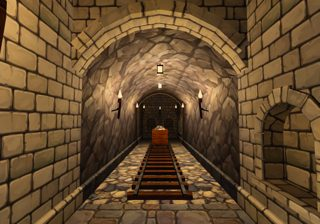
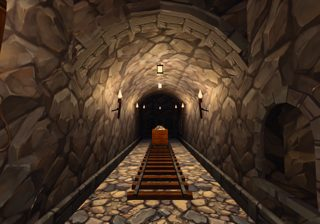
Riddergangen: samme gulv hele veien, også i naborommene
Eieren 20. oktober: «her har du blandet teksturer på gulvet. den skal
være samme hele veien». Gangen selv hadde ett gulv, men galleriet satte
naborommene i gravmur uansett modulens stein, så kvaderens heller gikk
rett over i gravhellene (det samme i gruvegangen). Naborommet får nå
steinen til rommet det står inntil.

check::floor_mix varsler når gulvet skifter i en åpen gang eller bue
mellom to rom, og hvert_rom_har_ett_gulv_i_hver_stein går gjennom hele
modulgalleriet. Nye bilder av riddergangen og gruvegangen, før/etter og
«rettet slik» for u_grav_riddergang.

Claude-Session: https://claude.ai/code/session_01HjRNadLHQ1vF9573PymvAE

diff --git a/crates/fristad-domain/src/domain/world/crypt/compose/modules.rs b/crates/fristad-domain/src/domain/world/crypt/compose/modules.rs
@@ -22,6 +22,7 @@ use super::grid::*;
 use super::{expand, Issue};
 use crate::domain::world::crypt::doc::{DocCell, DocEdge, DocLight, DocLink, DocModule, DocRoom, LevelDoc, LevelId, ModuleDef, Mood, Thing};
 use crate::domain::world::crypt::kit::KitDef;
+use crate::domain::world::crypt::stone::StoneRef;
 use glam::Vec3;
 use std::collections::{BTreeMap, HashMap};
 
@@ -483,6 +484,17 @@ fn modules_openings_or_empty(m: &ModuleDef, kit: &KitDef) -> Vec<LocalOpening> {
     openings(m, kit).0
 }
 
+/// Steinen rommet til cella `cell` i modulen har (rommets `stone`, ellers
+/// standardsteinen til rommets tema), så naborommet i galleriet får samme
+/// gulv som modulen: riddergangen i kvader fikk gravmurens heller i
+/// naborommene (eieren 20. oktober: «her har du blandet teksturer på
+/// gulvet. den skal være samme hele veien»).
+fn room_stone(m: &ModuleDef, cell: &str, kit: &KitDef) -> Option<StoneRef> {
+    let room = m.cells.iter().find(|c| c.id == cell).map(|c| c.room.as_str()).unwrap_or_default();
+    let r = m.rooms.iter().find(|r| r.id == room).or(m.rooms.first())?;
+    r.stone.clone().or_else(|| kit.stones.themes.get(&r.theme).filter(|_| r.theme != m.theme).cloned().map(StoneRef::Named))
+}
+
 /// Alle modulene side om side med fjell imellom (`?nivaa=moduler`,
 /// `snapshot --level-doc moduler`): bildene av modulene tas her i én kjøring.
 /// Hver modul står med `rot` 0 og sitt eget rom, med fakler i festene og et
@@ -536,13 +548,14 @@ pub fn gallery(kit: &KitDef) -> LevelDoc {
         let at = [x - i0, 0, row_z - j0];
         let main = m.rooms.first().cloned().unwrap_or_default();
         doc.modules.push(DocModule { id: name.clone(), module: m.id.clone(), at, mood: Some(Mood { torches: main.mood.torches.max(0.8), ..main.mood.clone() }), ..Default::default() });
-        for (k, h) in host_at.iter().enumerate() {
+        for (k, (h, o)) in host_at.iter().zip(&hosted).enumerate() {
             doc.modules.push(DocModule {
                 id: format!("{name}_nabo{k}"),
                 module: host.clone(),
                 at: [at[0] + h[0], h[1], at[2] + h[2]],
                 name: Some("Nabo".into()),
                 mood: Some(Mood::torches(0.8)),
+                stone: room_stone(m, &o.cell, kit),
                 ..Default::default()
             });
         }

diff --git a/crates/fristad-domain/src/domain/world/crypt/compose/check.rs b/crates/fristad-domain/src/domain/world/crypt/compose/check.rs
@@ -248,6 +248,32 @@ pub fn floor_mix(file: &LevelFile, kit: &KitDef) -> Vec<Issue> {
             floors.push((r, floor, at));
         }
     }
+    // Gulvet skifter ikke i en åpen gang eller bue mellom to rom (eieren
+    // 20. oktober om riddergangen: «den skal være samme hele veien»; rommene
+    // var hvert for seg rene, men gangen i kvader gikk rett over i
+    // gravhellene i rommet ved siden av). En dør, port eller mur er et skille.
+    let edge_open = |mid: [f32; 3]| {
+        !file.instances.iter().any(|e| {
+            (e.pos[0] - mid[0]).abs() < 0.05 && (e.pos[1] - mid[1]).abs() < 0.05 && (e.pos[2] - mid[2]).abs() < 0.05 && {
+                kit.listed().filter(|p| p.kind == PieceKind::Edge).any(|p| (p.model == e.model || p.variants.iter().any(|v| v.model == e.model)) && !matches!(p.opening.as_deref(), Some("gang" | "arch")))
+            }
+        })
+    };
+    for (a, (ra, fa, pa)) in floors.iter().enumerate() {
+        for (rb, fb, pb) in &floors[a + 1..] {
+            let (dx, dz) = ((pa[0] - pb[0]).abs(), (pa[2] - pb[2]).abs());
+            let next = (pa[1] - pb[1]).abs() < 0.05 && ((dx - CELL).abs() < 0.05 && dz < 0.05 || (dz - CELL).abs() < 0.05 && dx < 0.05);
+            if ra == rb || fa == fb || !next || !edge_open([(pa[0] + pb[0]) / 2.0, pa[1], (pa[2] + pb[2]) / 2.0]) {
+                continue;
+            }
+            let name = |r: usize| {
+                let room = &file.rooms[r];
+                if room.name.is_empty() { room.id.clone() } else { room.name.clone() }
+            };
+            let (na, nb) = (name(*ra), name(*rb));
+            out.push(Issue { severity: Severity::Warning, rule: "gulv", at: Some(*pa), msg: format!("gulvet skifter i åpningen mellom {na} og {nb} ({fa} og {fb})") });
+        }
+    }
     let mut seen: HashMap<usize, String> = HashMap::new();
     for (r, floor, at) in floors {
         match seen.get(&r) {

diff --git a/src/module_set_tests.rs b/src/module_set_tests.rs
@@ -33,6 +33,21 @@ fn hvert_rom_har_ett_gulv_i_hver_stein() {
         }
     }
     assert!(slabs_in_grav > 0, "gravkjelleren har fortsatt gravhellene sine");
+    // Og der eieren ser dem: modulene med naborommene i galleriet har samme
+    // gulv hele veien (riddergangen i kvader gikk over i gravhellene i
+    // naborommene, eieren 20. oktober: «den skal være samme hele veien»).
+    for page in modules::gallery_pages(&k) {
+        let (f, _) = compose::compile(&page, &k);
+        let mix = check::floor_mix(&f, &k);
+        assert!(mix.is_empty(), "{:?}: {:?}", page.level, mix.iter().map(|i| &i.msg).collect::<Vec<_>>());
+    }
+    // Gulvet som skifter i en åpen gang mellom to rom, er en advarsel.
+    let mut doc = modules::gallery(&k);
+    doc.modules.retain(|m| m.id.starts_with("riddergang"));
+    assert_eq!(doc.modules.len(), 3, "riddergangen med to naborom");
+    doc.modules.iter_mut().filter(|m| m.id.contains("_nabo")).for_each(|m| m.stone = None);
+    let (f, _) = compose::compile(&doc, &k);
+    assert!(check::floor_mix(&f, &k).iter().any(|i| i.msg.contains("skifter i åpningen")), "{:?}", check::floor_mix(&f, &k));
     // To steiner på gulvet i samme rom er en advarsel.
     let mut doc = modules::showcase(&k, "grav/rom_1x2").unwrap();
     doc.modules[0].stone = None;
